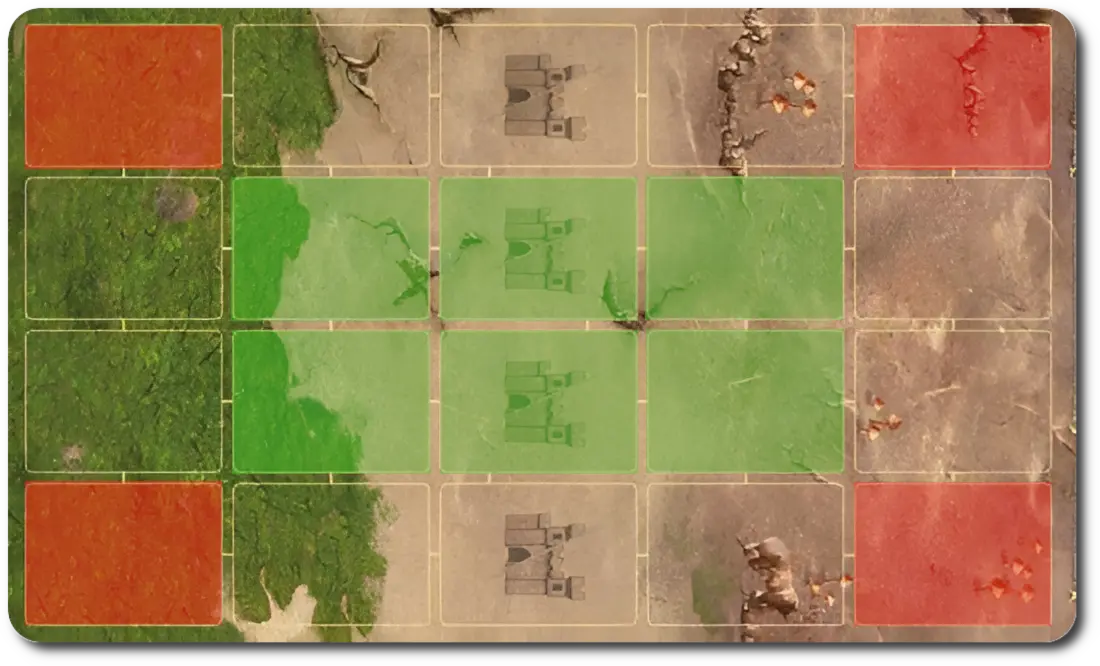
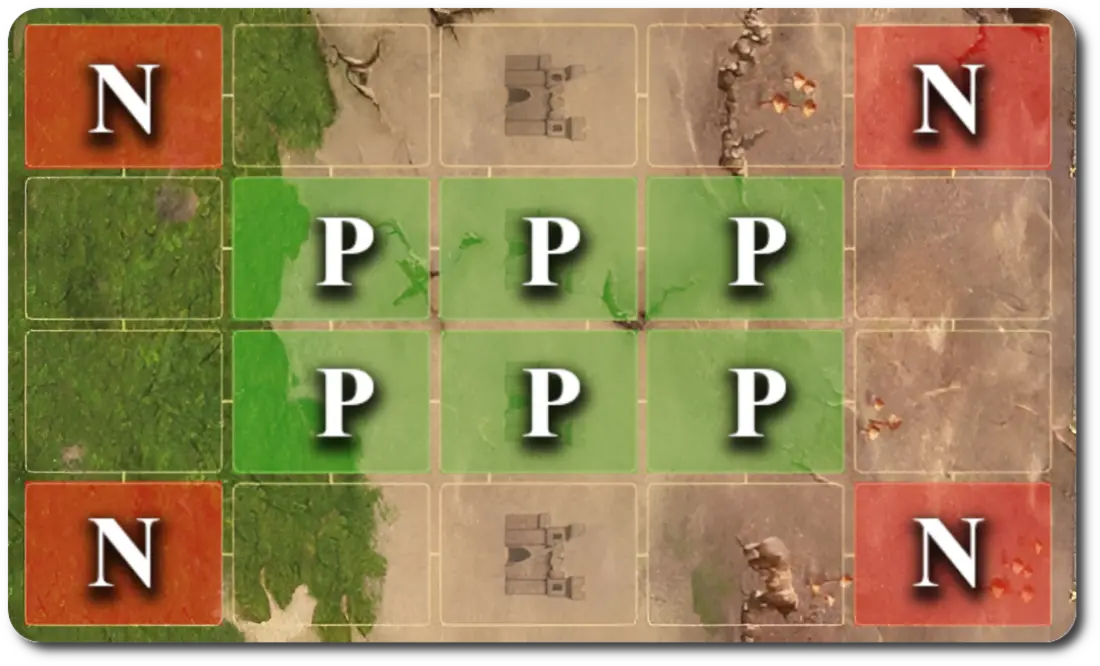
🍱adds better image for creature bank combat

diff --git a/docs/fields/creature_bank.md b/docs/fields/creature_bank.md
@@ -25,7 +25,7 @@ They can be either placed on the [Far (Ⅱ-Ⅲ) Map tiles](../tiles/index.md#far
 
 </figure>
 
-<p style="text-align: center;" markdown>Green - Player Deployment Zone<br>Red - Guards Deployment Zone</p>
+<p style="text-align: center;" markdown>P - Player Deployment Zone<br>N - Guards Deployment Zone</p>
 
 When starting Combat at a Creature Bank, the player can place up to 5 of their [units](../units/index.md) in the player deployment zone.
 Neutral guard [units](../units/index.md) corresponding to the Creature Bank being visited are then placed randomly in the guards deployment zone.
